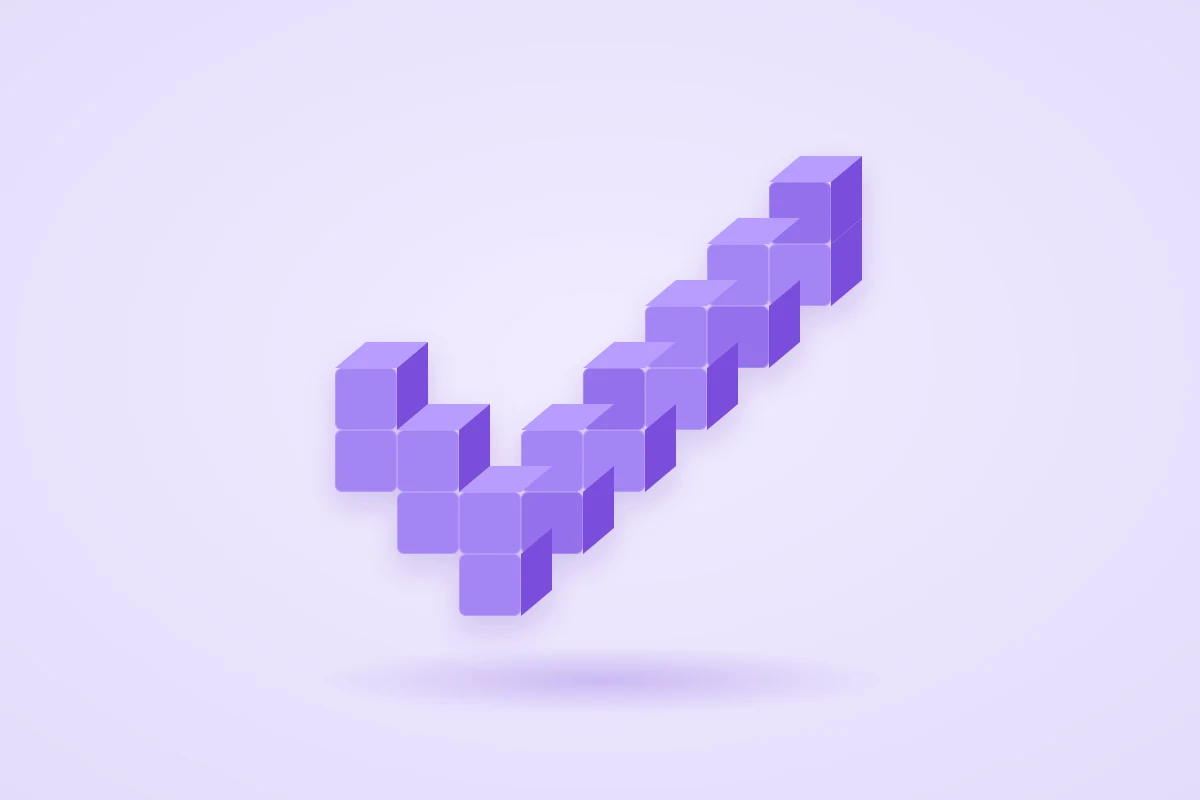
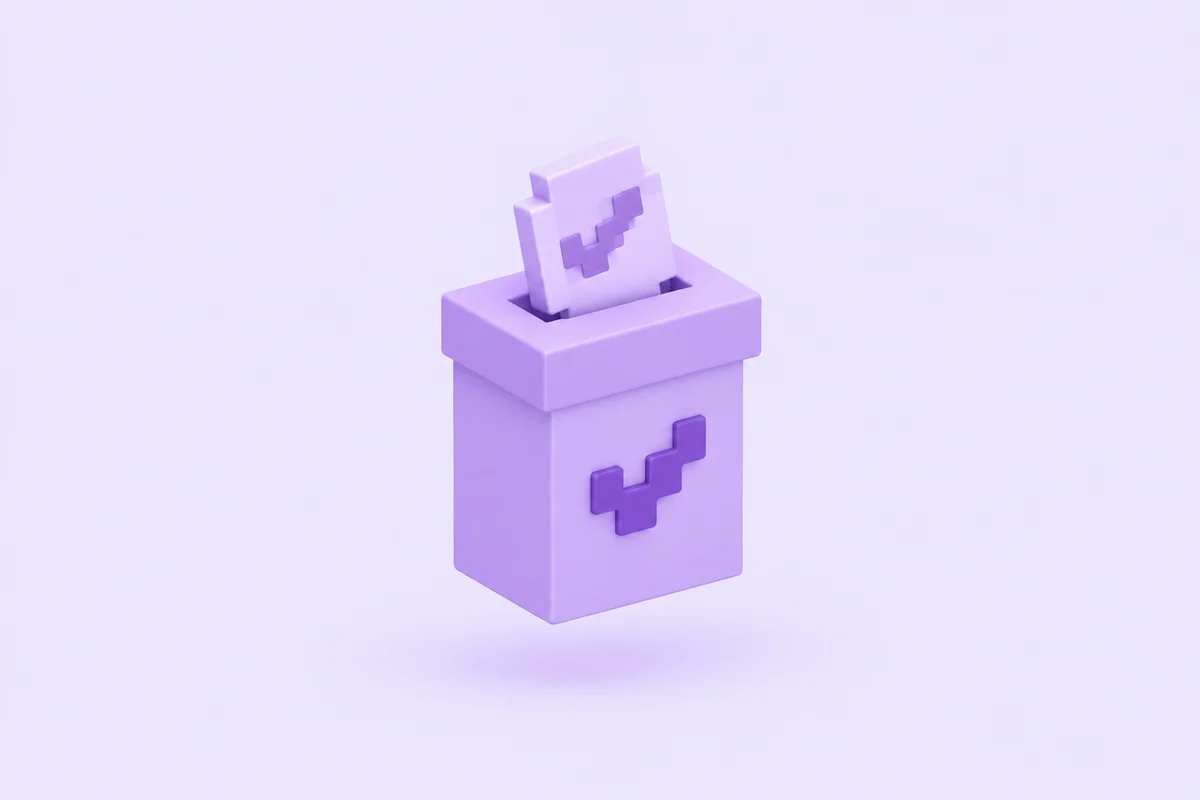
Cambia la portada del artículo de votos por la urna de votación
Sustituye la marca de verificación generada a mano por un render en el
mismo estilo que el resto de portadas del blog, y actualiza el texto
alternativo.

Changed region(s): [[0.2775, 0.1875, 0.74, 0.7812]]

diff --git a/src/content/blog/como-votar-por-cubusfera.md b/src/content/blog/como-votar-por-cubusfera.md
@@ -11,7 +11,7 @@ tags:
   - comunidad
   - votos
 image: "/images/blog/como-votar-por-cubusfera.webp"
-imageAlt: "Marca de verificación hecha de bloques violeta sobre fondo lila"
+imageAlt: "Urna de votación de bloques violeta con una papeleta marcada entrando por la ranura"
 draft: false
 relatedLinks:
   - title: "Cómo entrar al servidor"
